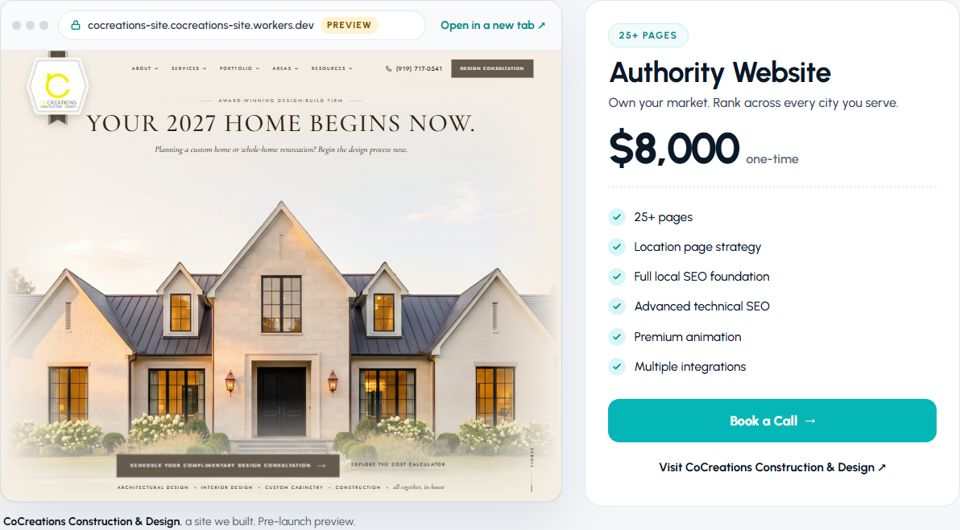
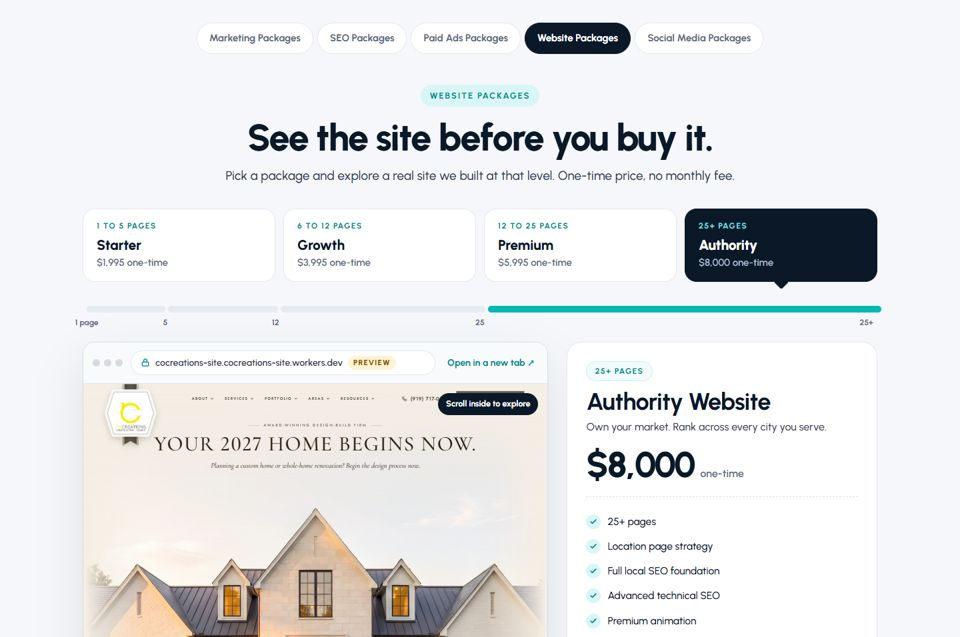
Landing: keep option cards above the header, reframe option B thumbnail

diff --git a/index.html b/index.html
@@ -18,7 +18,7 @@ body{margin:0;font-family:'Urbanist',system-ui,sans-serif;color:var(--ink);backg
 .tag{display:inline-block;font-size:13px;font-weight:700;letter-spacing:.14em;text-transform:uppercase;color:#7fe3e3;background:rgba(4,182,182,.14);padding:7px 14px;border-radius:999px}
 h1{font-size:clamp(36px,5vw,60px);line-height:1.04;letter-spacing:-.03em;margin:18px auto 14px;max-width:820px}
 .top p{max-width:640px;margin:0 auto;font-size:18px;color:#b9c7d6;font-weight:500}
-.wrap{max-width:1180px;margin:-80px auto 0;padding:0 24px 80px;display:grid;grid-template-columns:1fr 1fr;gap:24px}
+.wrap{position:relative;z-index:1;max-width:1180px;margin:-80px auto 0;padding:0 24px 80px;display:grid;grid-template-columns:1fr 1fr;gap:24px}
 .card{display:flex;flex-direction:column;background:#fff;border:1.5px solid var(--line);border-radius:24px;overflow:hidden;text-decoration:none;color:inherit;box-shadow:0 24px 60px rgba(10,24,40,.10);transition:transform .35s var(--ease),box-shadow .35s var(--ease),border-color .35s}
 .card:hover{transform:translateY(-6px);border-color:#9fdcdc;box-shadow:0 34px 80px rgba(10,24,40,.14)}
 .card:focus-visible{outline:3px solid var(--teal);outline-offset:4px}
